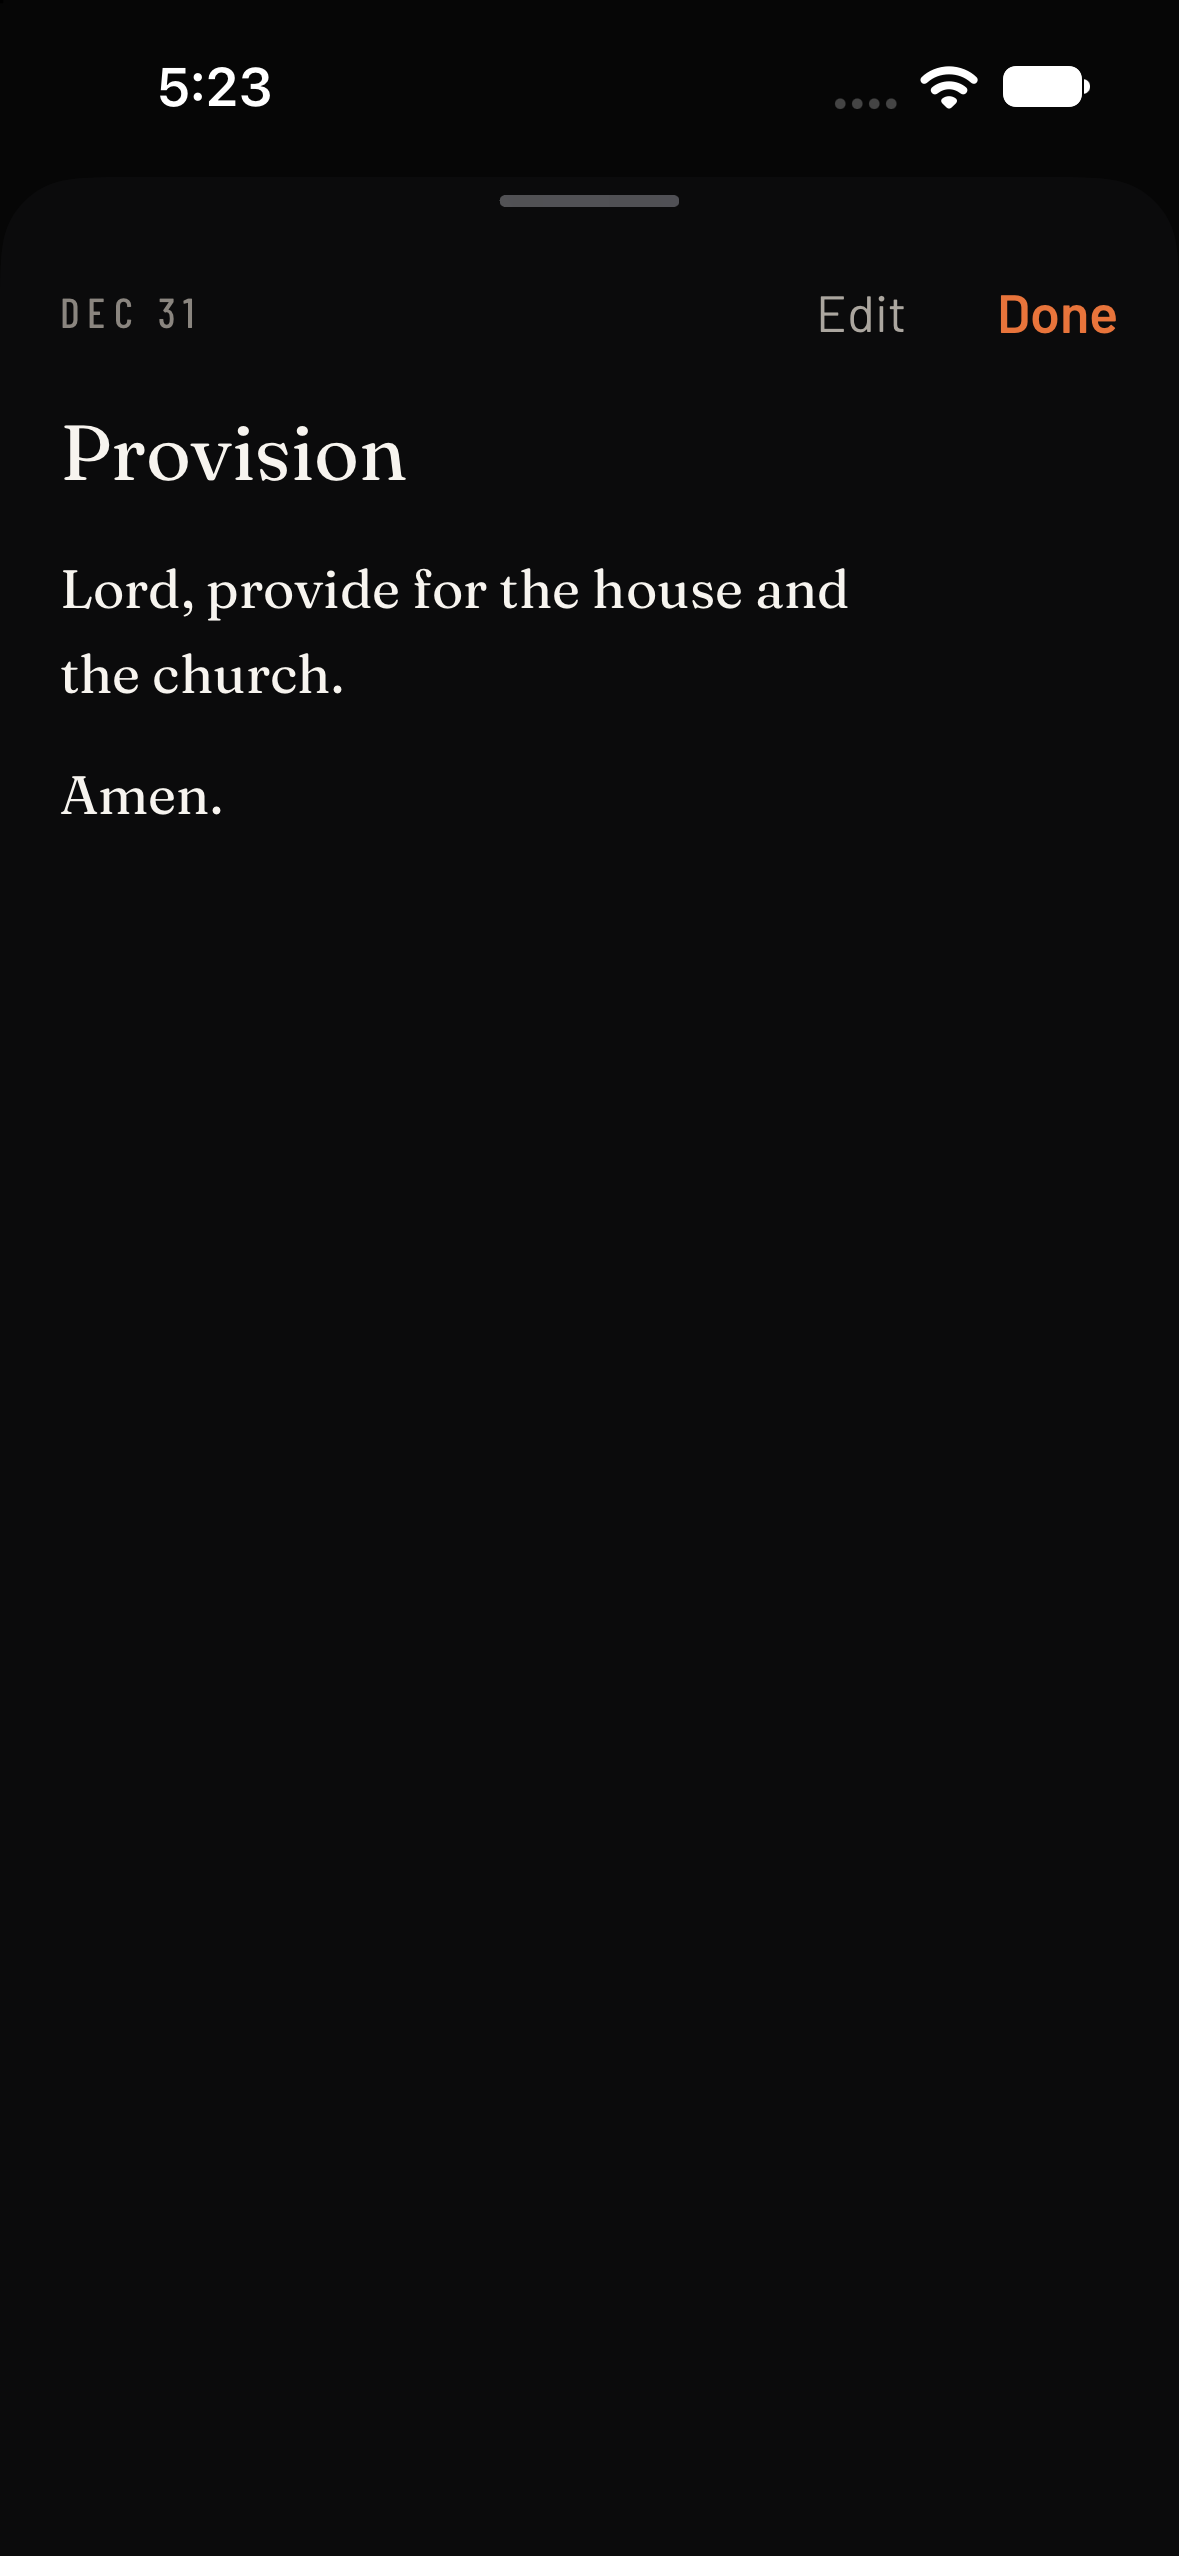
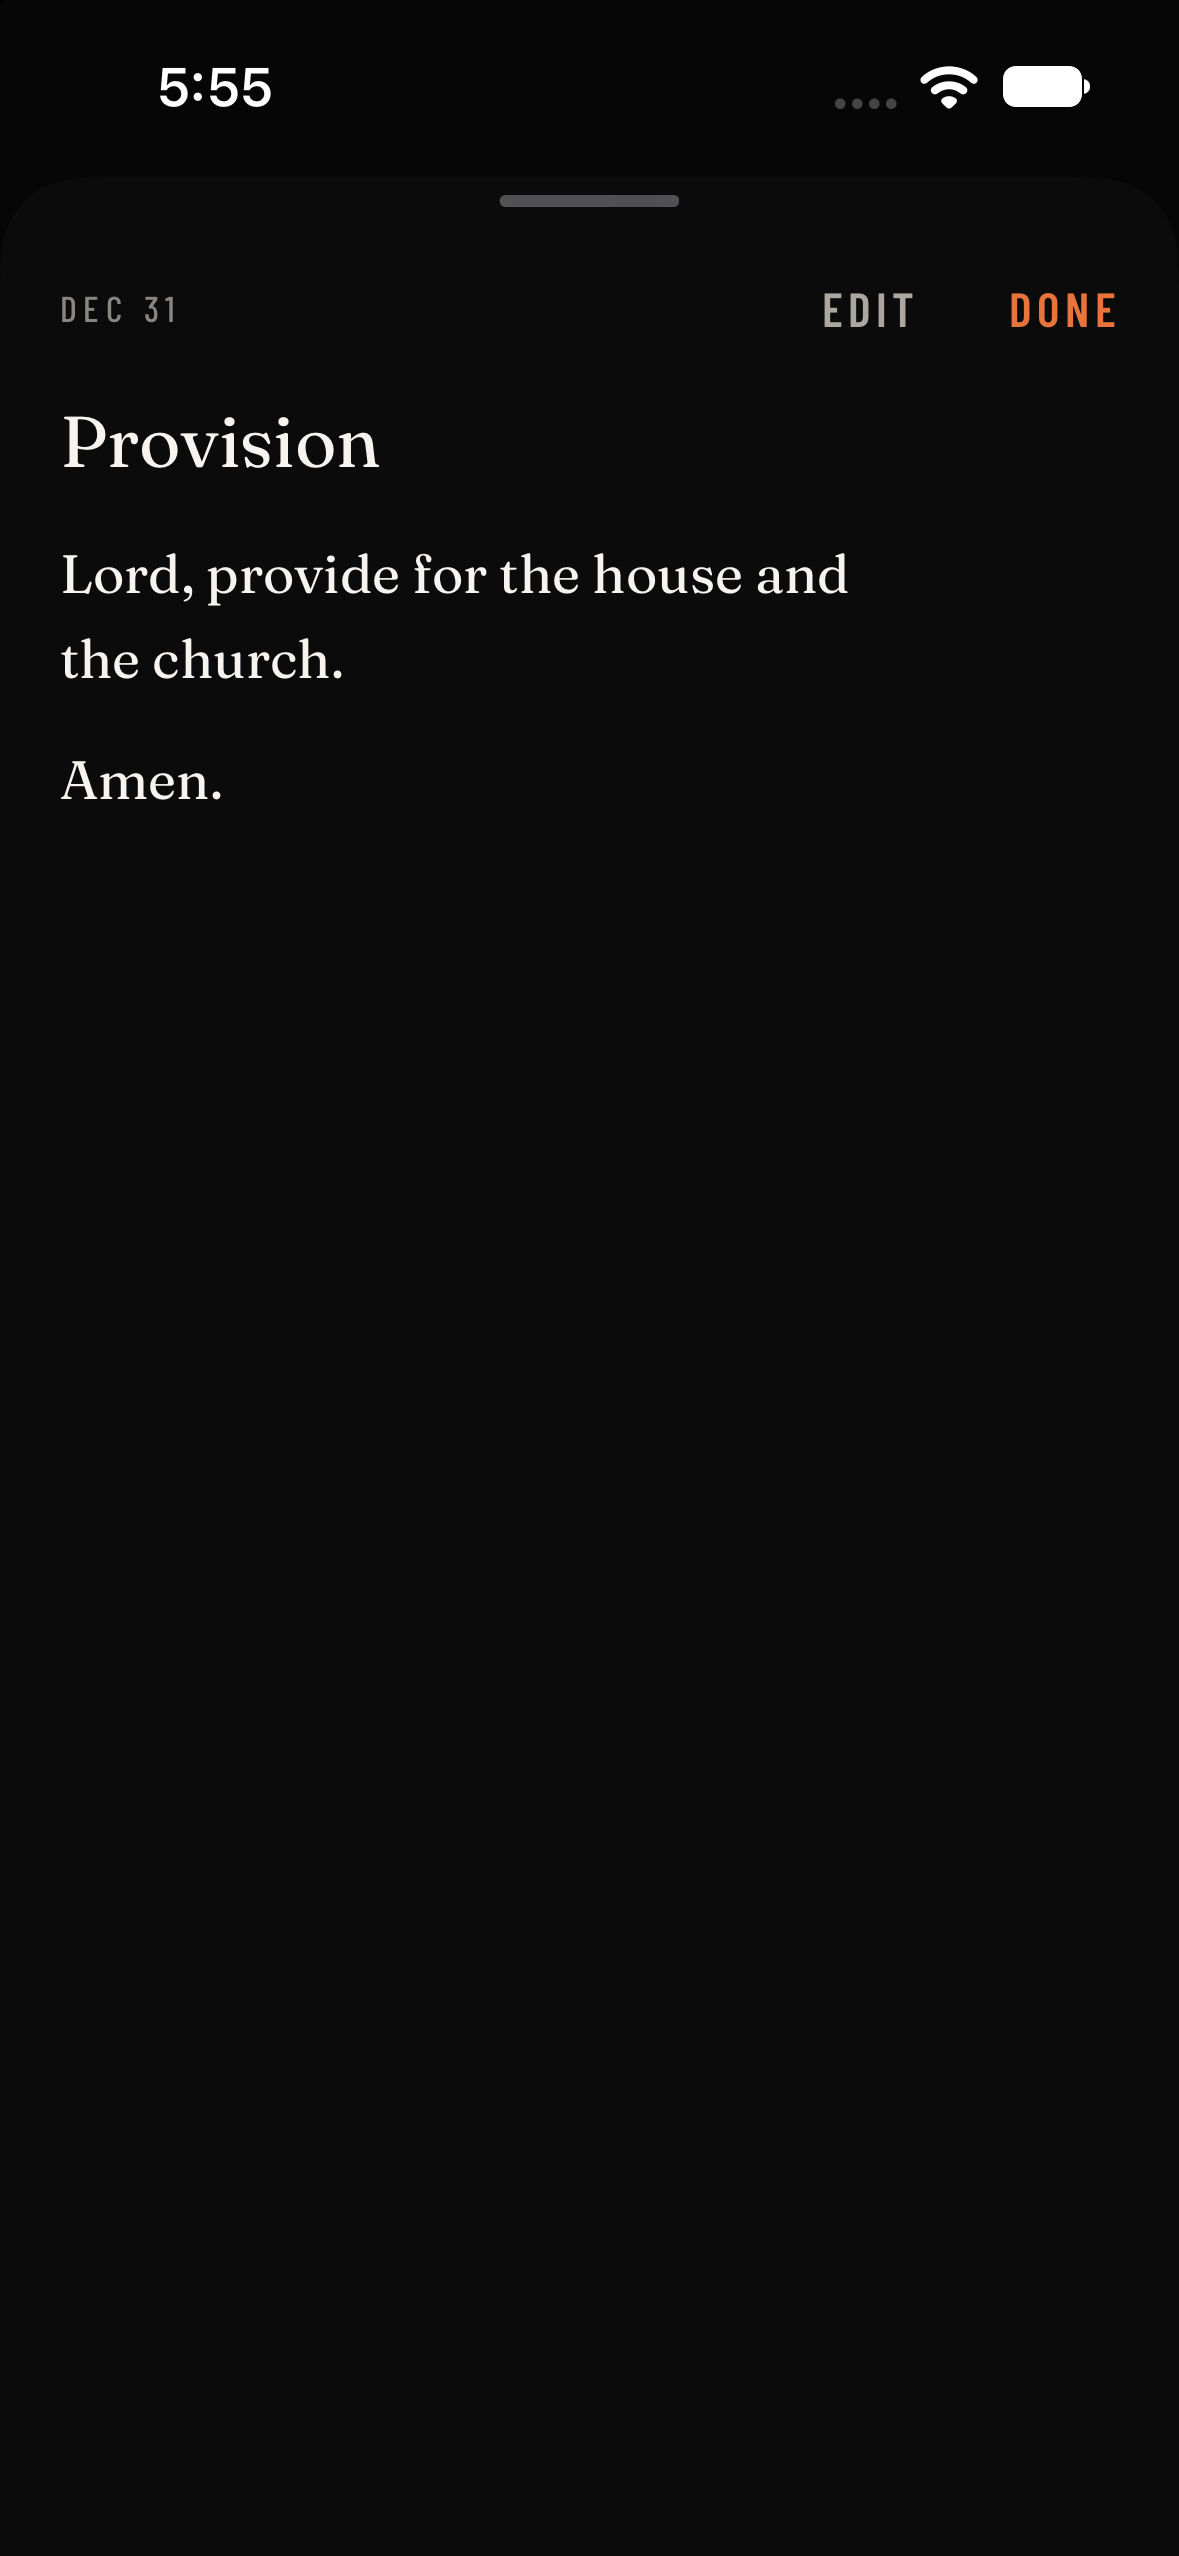
iOS: a prayer with only a name opens as a half sheet; the list previews a prayer's text

diff --git a/ios/WeeklyDirection/PrayerView.swift b/ios/WeeklyDirection/PrayerView.swift
@@ -35,10 +35,17 @@ struct PrayerList: View {
                         .font(Theme.serifItalic(17)).foregroundStyle(Theme.mu2).padding(.top, 14)
                 }
                 ForEach(rest) { p in
-                    Button { router.sheet = .prayer(p.id, pinned: false) } label: {
-                        HStack(spacing: 12) {
+                    Button { router.half = p.body.isEmpty; router.sheet = .prayer(p.id, pinned: false) } label: {
+                        HStack(alignment: .top, spacing: 12) {
                             Ico(name: p.icon ?? "hands", size: 18).foregroundStyle(Theme.mu).opacity(p.icon == nil ? 0.5 : 1)
-                            Text(p.text).font(Theme.serif(18)).foregroundStyle(Theme.tx).multilineTextAlignment(.leading)
+                            VStack(alignment: .leading, spacing: 4) {
+                                Text(p.text).font(Theme.serif(18)).foregroundStyle(Theme.tx).multilineTextAlignment(.leading)
+                                // what is written under the name, so the list shows which prayers have more to read
+                                if !p.body.isEmpty {
+                                    Text(p.body.replacingOccurrences(of: "\\s+", with: " ", options: .regularExpression))
+                                        .font(Theme.serifItalic(15)).foregroundStyle(Theme.mu2).lineLimit(1)
+                                }
+                            }
                             Spacer()
                         }
                         .padding(.vertical, 13)
@@ -113,7 +120,7 @@ struct PrayerSheet: View {
         }
     }
 
-    private func startEdit() { editing = true; focus = .body }
+    private func startEdit() { router.detent = .large; editing = true; focus = .body }
 
     private var reader: some View {
         let paras = bodyText.components(separatedBy: "\n\n").map { $0.trimmingCharacters(in: .whitespacesAndNewlines) }.filter { !$0.isEmpty }
@@ -123,6 +130,13 @@ struct PrayerSheet: View {
                 Text(p).font(Theme.serif(18)).lineSpacing(6).foregroundStyle(Theme.tx)
             }
             if pinned, !paras.isEmpty { Eyebrow(text: "Amen", color: Theme.mu2, size: 12).frame(maxWidth: .infinity).padding(.top, 10) }
+            // only a name so far: one tap to write under it
+            if paras.isEmpty, !pinned {
+                Button { startEdit() } label: {
+                    Text("Add to this prayer").font(Theme.serifItalic(18)).foregroundStyle(Theme.mu2).fullWidth().contentShape(Rectangle())
+                }
+                .buttonStyle(.plain)
+            }
         }
         .padding(.top, 20)
     }

diff --git a/ios/WeeklyDirection/Router.swift b/ios/WeeklyDirection/Router.swift
@@ -27,7 +27,18 @@ final class Router: ObservableObject {
 
     @Published var tab = "week"             // week | reflect (the journal list) | prayer | progress
     @Published var cover: Cover?
-    @Published var sheet: Sheet?
+    @Published var sheet: Sheet? {
+        didSet {
+            guard let s = sheet else { return }
+            // a habit, and a prayer that is only its name, open as a half sheet; anything to read or write gets the page
+            if case .habit = s { detent = .medium } else if case .prayer = s, half { detent = .medium } else { detent = .large }
+            half = false
+        }
+    }
+    /// how tall the open sheet is; a half sheet goes to `.large` when its editor opens
+    @Published var detent: PresentationDetent = .large
+    /// set right before `sheet` to open a prayer as a half sheet
+    var half = false
     /// the day the habit list shows (nil = today)
     @Published var selK: String?
     /// the Reflect intent arrived before the data did
@@ -64,6 +75,7 @@ final class Router: ObservableObject {
         case "recording": recording = true
         case "prayer": tab = "prayer"
         case "prayer-open": tab = "prayer"; sheet = .prayer(store.prayers.first { !$0.pinned }?.id, pinned: false)
+        case "prayer-short": tab = "prayer"; half = true; sheet = .prayer(store.prayers.first { !$0.pinned && $0.body.isEmpty }?.id, pinned: false)
         case "progress": tab = "progress"
         case "progress-habits": tab = "progress"; progressView = "habits"
         case "stats": tab = "progress"; if let aw { cover = .stats(aw.id) }

diff --git a/ios/WeeklyDirection/WeeklyDirectionApp.swift b/ios/WeeklyDirection/WeeklyDirectionApp.swift
@@ -109,8 +109,8 @@ struct MainTabs: View {
         }
         .sheet(item: $router.sheet) { s in
             sheet(s).environmentObject(store).environmentObject(router)
-                // a habit opens as a half sheet over the week; pull it up for more room
-                .presentationDetents({ if case .habit = s { return [.medium, .large] } else { return [.large] } }())
+                // a habit, and a prayer with nothing but its name, open as a half sheet; pull it up for more room
+                .presentationDetents({ if case .close = s { return [.large] } else { return [.medium, .large] } }(), selection: $router.detent)
                 .presentationDragIndicator(.visible)
                 .presentationCornerRadius(28)
                 .presentationBackground(Theme.bg)

diff --git a/ios/docs/PROGRESS.md b/ios/docs/PROGRESS.md
@@ -2,6 +2,10 @@
 
 **Current: a past day of the open week can be changed to failed from the habit sheet (Nov 10) BUILT, not on the phone yet; next TestFlight upload is 0.2 (1).** Open: prayer icon pick, device check of dictation. Nothing pushed (no git credentials in the Claude shell).
 
+## Prayers without a full page (Nov 10)
+- A prayer that is only its name opens as a half sheet with "Add to this prayer"; Edit or that line lifts it to the full page. A prayer with text, the life prayer and New still open full height. The list shows one muted line of a prayer's text under its name.
+- Layout only: no change to what is saved. Verified: simulator shots `prayer`, `prayer-short`. Not verified: on the phone; the lift to full height when Edit is tapped.
+
 ## Past-day correction (Nov 10)
 - Habit sheet on a past day of the open week: "Change <day> to failed" plus a confirm that names the day and what is recorded. Works for a done or a missed habit; a failure stays final; a past day still cannot be checked off. Writes what a same-day failure writes (`id: false`, `id@fail: true`, mark `drift`). Closed weeks stay read-only.
 - iOS only: the web app still closes the sheet on past days, but shows the failure.
